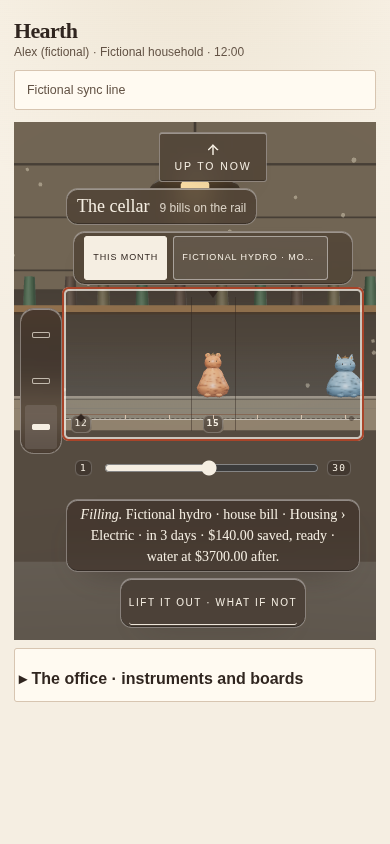
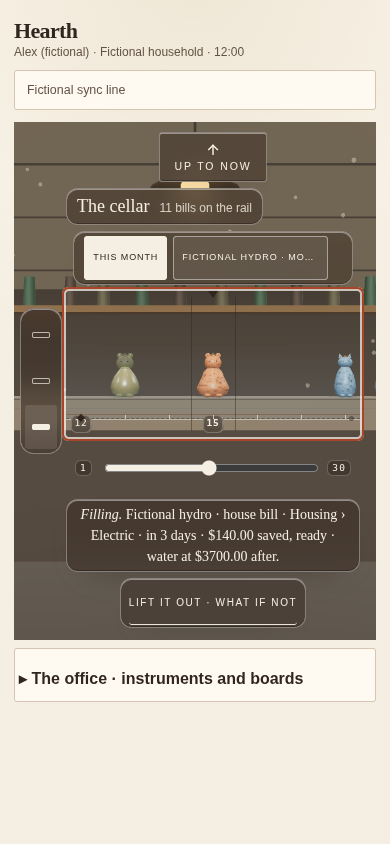
A planned expense is frosted glass, not a wireframe ghost; four purposes, four silhouettes
Planned expenses get a round no-tail body in frosted glass; wireframe stays
for paid shards only. Recurring = tall cat; appointment = loaf.

diff --git a/src/queen/QueenBankFlat.tsx b/src/queen/QueenBankFlat.tsx
@@ -27,7 +27,7 @@ function draw(form: BankForm) {
   const right = points.map(([r, y]) => `L${across(r).toFixed(2)} ${up(y).toFixed(2)}`);
   const left = [...points].reverse().map(([r, y]) => `L${across(-r).toFixed(2)} ${up(y).toFixed(2)}`);
   const body = `M${cx} ${FOOT}${right.join("")}${left.join("")}Z`;
-  const dial = form === "goal" ? 1 : form === "subscription" ? 0.85 : form === "recurring" ? 0.8 : form === "appointment" ? 0.72 : 0.75;
+  const dial = form === "goal" ? 1 : form === "subscription" ? 0.85 : form === "recurring" ? 0.72 : form === "appointment" ? 0.8 : form === "planned" ? 0.8 : 0.75;
   const head = KITTY_HEAD_SCALE[sculpt.head];
   return {
     body,
@@ -61,8 +61,10 @@ const shapeOf = (form: BankForm) => {
 
 export type BankFinish = "plain" | "speckle" | "banded" | "crackle";
 
-export function QueenBankFlat({ form, fill = 0, parts = 0, hollow = false, lidded, className, tint, finish = "plain" }: {
+export function QueenBankFlat({ form, fill = 0, parts = 0, hollow = false, frosted = false, lidded, className, tint, finish = "plain" }: {
   form: BankForm;
+  /** A planned expense: drawn as frosted glass in its tint — translucent, dashed — rather than an empty outline. */
+  frosted?: boolean;
   /** The clay's tint — a CSS colour from the category group. Absent, the bare clay. */
   tint?: string;
   /** The category line's finish: a pattern laid over the clay. */
@@ -84,9 +86,9 @@ export function QueenBankFlat({ form, fill = 0, parts = 0, hollow = false, lidde
   const glazeTop = FOOT - (FOOT - shape.shoulder) * level;
   const necks = Math.min(3, Math.max(0, parts));
   return (
-    <svg className={className} viewBox={`0 0 ${VIEW} ${VIEW}`} aria-hidden="true" focusable="false" data-form={form} data-hollow={hollow ? "true" : "false"} data-finish={finish} style={tint ? { ["--bank-tint" as string]: tint } : undefined}>
+    <svg className={className} viewBox={`0 0 ${VIEW} ${VIEW}`} aria-hidden="true" focusable="false" data-form={form} data-hollow={hollow ? "true" : "false"} data-frosted={frosted ? "true" : "false"} data-finish={finish} style={tint ? { ["--bank-tint" as string]: tint } : undefined}>
       <clipPath id={`${uid}-body`}><path d={shape.body} /></clipPath>
-      {finish !== "plain" && !hollow && (
+      {finish !== "plain" && !hollow && !frosted && (
         <pattern id={`${uid}-finish`} patternUnits="userSpaceOnUse" width="12" height="12">
           {finish === "speckle" && <><circle className="queen-bank-flat__finish" cx="3" cy="4" r="1.2" /><circle className="queen-bank-flat__finish" cx="9" cy="9" r="1" /><circle className="queen-bank-flat__finish" cx="8" cy="2" r=".8" /></>}
           {finish === "banded" && <rect className="queen-bank-flat__finish" x="0" y="4" width="12" height="2.4" />}
@@ -96,7 +98,7 @@ export function QueenBankFlat({ form, fill = 0, parts = 0, hollow = false, lidde
       {shape.tail && <path className="queen-bank-flat__tail" d={shape.tail} fill="none" strokeWidth="5" strokeLinecap="round" />}
       <path className={`queen-bank-flat__clay${hollow ? " is-hollow" : ""}`} d={shape.body} />
       {!hollow && level > 0.02 && <rect className="queen-bank-flat__glaze" clipPath={`url(#${uid}-body)`} x="0" y={glazeTop} width={VIEW} height={FOOT - glazeTop + 1} />}
-      {finish !== "plain" && !hollow && <path className="queen-bank-flat__finish-coat" d={shape.body} fill={`url(#${uid}-finish)`} />}
+      {finish !== "plain" && !hollow && !frosted && <path className="queen-bank-flat__finish-coat" d={shape.body} fill={`url(#${uid}-finish)`} />}
       <path className="queen-bank-flat__edge" d={shape.body} fill="none" strokeWidth="2" />
       {[-1, 1].map((side) => (shape.earUp
         ? <path key={side} className="queen-bank-flat__ear" d={`M${shape.headX + side * shape.earSpread - shape.earR * 0.8} ${shape.earY + 2}L${shape.headX + side * shape.earSpread} ${shape.earY - shape.earR * 1.6}L${shape.headX + side * shape.earSpread + shape.earR * 0.8} ${shape.earY + 2}Z`} />

diff --git a/src/queen/world/queenRoomWorld.ts b/src/queen/world/queenRoomWorld.ts
@@ -36,6 +36,8 @@ export type RoomVessel = {
   outlier?: boolean;
   /** Nothing was posted: the jar is drawn as an outline, claiming nothing. */
   hollow?: boolean;
+  /** A planned expense: not posted, but not nothing either — frosted glass in its group's tint, the shape of what might be. */
+  frosted?: boolean;
   /** Picked up. It lifts off the shelf; its shadow spreads. */
   lifted?: boolean;
   /** Leaning away, because something was offered to a lidded thing. */
@@ -298,6 +300,15 @@ export function createQueenRoomWorld(host: HTMLElement, options: { room: QueenRo
     finishMaps.set(finish, texture);
     return texture;
   };
+  const frostedClays = new Map<string, THREE.Material>();
+  const frostedFor = (tint?: string): THREE.Material => {
+    const key = tint ?? "clay";
+    const known = frostedClays.get(key);
+    if (known) return known;
+    const built = mat(new THREE.MeshPhysicalMaterial({ color: tint ?? "#c0a67e", roughness: 0.55, transmission: 0, transparent: true, opacity: 0.42, clearcoat: 0.6, clearcoatRoughness: 0.35, depthWrite: false }));
+    frostedClays.set(key, built);
+    return built;
+  };
   const tintedClays = new Map<string, THREE.Material>();
   const clayFor = (tint?: string, finish: NonNullable<RoomVessel["finish"]> = "plain"): THREE.Material => {
     if (!tint) return clay;
@@ -329,9 +340,10 @@ export function createQueenRoomWorld(host: HTMLElement, options: { room: QueenRo
   /** Build one bank in the form it is given. One unit tall at rest; the seat's height is its scale. */
   const buildVessel = (vessel: RoomVessel): Seat => {
     const form = vessel.form ?? vessel.kind;
-    const built = buildBankVessel(shapeFor(form), { ...bankMaterials, clay: clayFor(vessel.tint, vessel.finish) }, {
+    const frosted = Boolean(vessel.frosted);
+    const built = buildBankVessel(shapeFor(form), { ...bankMaterials, clay: clayFor(vessel.tint, vessel.finish), ...(frosted ? { ghost: frostedFor(vessel.tint) } : {}) }, {
       form,
-      hollow: vessel.hollow,
+      hollow: vessel.hollow || frosted,
       // Open-mouthed things accept; lidded things refuse. A month on the rail is
       // a bill, so it is lidded too: there was never a decision inside it.
       lidded: vessel.kind !== "goal",
@@ -428,7 +440,7 @@ export function createQueenRoomWorld(host: HTMLElement, options: { room: QueenRo
         seen.add(vessel.id);
         const old = seats.get(vessel.id);
         // A change of kind, hollowness or part count is a different vessel; everything else is a pose.
-        if (old && old.vessel.kind === vessel.kind && old.vessel.form === vessel.form && old.vessel.tint === vessel.tint && old.vessel.finish === vessel.finish && old.vessel.hollow === vessel.hollow && old.vessel.parts === vessel.parts) {
+        if (old && old.vessel.kind === vessel.kind && old.vessel.form === vessel.form && old.vessel.tint === vessel.tint && old.vessel.finish === vessel.finish && old.vessel.hollow === vessel.hollow && old.vessel.frosted === vessel.frosted && old.vessel.parts === vessel.parts) {
           old.vessel = vessel;
           poseVessel(old);
           continue;

diff --git a/src/queen/world/queenBankSculpture.ts b/src/queen/world/queenBankSculpture.ts
@@ -33,7 +33,7 @@ import type { KittySculptV1 } from "../../core/types.ts";
 export type BankForm = "jar" | "goal" | "bill" | "recurring" | "subscription" | "appointment" | "planned";
 
 /** Head size dial per form, matching `nestDefaultPiece`: a bill's head is small. */
-const HEAD_DIAL: Record<BankForm, number> = { jar: 0.75, goal: 1, bill: 0.75, recurring: 0.8, subscription: 0.85, appointment: 0.72, planned: 0.75 };
+const HEAD_DIAL: Record<BankForm, number> = { jar: 0.75, goal: 1, bill: 0.75, recurring: 0.72, subscription: 0.85, appointment: 0.8, planned: 0.8 };
 
 /** The tier sculpts, straight from the nest's own defaults. */
 export const BANK_SCULPT: Record<BankForm, Pick<KittySculptV1, "body" | "head" | "ears" | "tail" | "profile">> = {
@@ -44,14 +44,14 @@ export const BANK_SCULPT: Record<BankForm, Pick<KittySculptV1, "body" | "head" |
   // A lidded obligation: bean, round ears, no tail.
   bill: { body: "bean", head: "round", ears: "round", tail: "none", profile: defaultKittySculpt().profile },
   // The cellar's purposes (2026-09-14), one body each so a purpose is a shape before it is a word:
-  // a recurring payment (a loan, an insurance) is the low loaf with pointed ears — it sits and stays;
-  recurring: { body: "loaf", head: "wedge", ears: "pointed", tail: "none", profile: defaultKittySculpt().profile },
+  // a recurring payment (a loan, an insurance) is the tall cat with pointed ears — upright, it stands and stays;
+  recurring: { body: "tall", head: "wedge", ears: "pointed", tail: "none", profile: defaultKittySculpt().profile },
   // a subscription is the round cat with its tail wrapped round — the loop that comes back every month;
   subscription: { body: "round", head: "round", ears: "pointed", tail: "wrap", profile: defaultKittySculpt().profile },
-  // an appointment is the tall cat, upright, waiting on a date;
-  appointment: { body: "tall", head: "round", ears: "round", tail: "none", profile: defaultKittySculpt().profile },
-  // a planned expense is the bill's bean, but it is always drawn hollow until it posts.
-  planned: { body: "bean", head: "round", ears: "round", tail: "none", profile: defaultKittySculpt().profile },
+  // an appointment is the low loaf, sitting, waiting on a date;
+  appointment: { body: "loaf", head: "round", ears: "round", tail: "none", profile: defaultKittySculpt().profile },
+  // a planned expense is a round cat with no tail, and it is frosted glass until it posts: the shape of what might be.
+  planned: { body: "round", head: "round", ears: "round", tail: "none", profile: defaultKittySculpt().profile },
 };
 
 /** Every measurement a room needs to seat a bank of this form, in the cat's own units. */

diff --git a/src/queen/queen-cellar.css b/src/queen/queen-cellar.css
@@ -59,6 +59,11 @@
 .queen-room--cellar .queen-bank-flat__finish { fill: color-mix(in srgb, var(--ink) 34%, transparent); }
 .queen-room--cellar .queen-bank-flat__finish-line { fill: none; stroke: color-mix(in srgb, var(--ink) 38%, transparent); stroke-width: .9; }
 .queen-room--cellar .queen-bank-flat__finish-coat { opacity: .9; }
+/* A planned expense is frosted glass: its tint at a third, a dashed edge, no eyes yet — the shape of what might be. */
+.queen-room--cellar .queen-bank-flat[data-frosted="true"] .queen-bank-flat__clay, .queen-room--cellar .queen-bank-flat[data-frosted="true"] .queen-bank-flat__ear { fill: color-mix(in srgb, var(--bank-tint, var(--queen-clay)) 34%, transparent); }
+.queen-room--cellar .queen-bank-flat[data-frosted="true"] .queen-bank-flat__edge { stroke: color-mix(in srgb, var(--bank-tint, var(--queen-clay-deep)) 75%, var(--ink)); stroke-dasharray: 3 3; }
+.queen-room--cellar .queen-bank-flat[data-frosted="true"] .queen-bank-flat__eye { opacity: .45; }
+.queen-room--cellar .queen-bank-flat[data-frosted="true"] .queen-bank-flat__glaze { opacity: .5; }
 /* Five sizes. The cell stays 44px; the cat grows through it, and the sculpture behind it follows the drawn seat. */
 .queen-room--cellar .queen-billjar--size-1, .queen-room--cellar .queen-billjar--size-1 .queen-billjar__cat { width: 28px; height: 28px; }
 .queen-room--cellar .queen-billjar--size-2, .queen-room--cellar .queen-billjar--size-2 .queen-billjar__cat { width: 34px; height: 34px; }

diff --git a/src/queen/QueenCellarRail.tsx b/src/queen/QueenCellarRail.tsx
@@ -23,7 +23,7 @@ export const cellarBankForm = (type: CellarJar["type"]): BankForm =>
 export function CellarJarGlyph({ jar, held = false }: { jar: CellarJar; held?: boolean }) {
   return (
     <span className={`queen-billjar queen-billjar--${jar.type} queen-billjar--size-${jar.size}${jar.paid ? " is-shard" : ""}${held ? " is-held" : ""}`} data-hue={jar.hue} data-finish={jar.finish} aria-hidden="true">
-      <QueenBankFlat form={cellarBankForm(jar.type)} className="queen-bank-flat queen-billjar__cat" fill={jar.paid ? 0 : jar.fill} hollow={jar.type === "potential" || jar.paid} tint={jar.hue === "clay" ? undefined : `var(--queen-hue-${jar.hue})`} finish={jar.finish} />
+      <QueenBankFlat form={cellarBankForm(jar.type)} className="queen-bank-flat queen-billjar__cat" fill={jar.paid ? 0 : jar.fill} hollow={jar.paid} frosted={jar.type === "potential" && !jar.paid} tint={jar.hue === "clay" ? undefined : `var(--queen-hue-${jar.hue})`} finish={jar.finish} />
       {(jar.paid || jar.strike === "crack") && (
         <svg viewBox="0 0 100 100" className={`queen-billjar__crack${jar.paid ? " queen-billjar__crack--shard" : " queen-billjar__crack--due"}`}>
           <path d={jar.paid ? "M52 34 L44 52 L56 62 L46 86" : "M54 40 L47 56 L57 66"} />

diff --git a/test/queen-cellar-ui.test.ts b/test/queen-cellar-ui.test.ts
@@ -210,8 +210,11 @@ describe("The cellar's bill rail — the room opens on this month, one jar a day
     expect(glyph("Fictional rent").className).toContain("queen-billjar--size-5");
     expect(glyph("Fictional streaming").className).toContain("queen-billjar--size-1");
     expect(glyph("Fictional winter tires").className).toContain("queen-billjar--size-4");
-    // A hollow jar (planned, or paid) wears no finish coat: nothing is inside it to glaze.
+    // A planned expense is frosted glass (not an empty outline) and wears no finish coat; a paid one is hollow.
+    expect(cat("Fictional winter tires").dataset.frosted).toBe("true");
+    expect(cat("Fictional winter tires").dataset.hollow).toBe("false");
     expect(cat("Fictional winter tires").querySelector(".queen-bank-flat__finish-coat")).toBeNull();
+    expect(cat("Fictional streaming").dataset.hollow).toBe("true");
     expect(cat("Fictional streaming").querySelector(".queen-bank-flat__finish-coat")).toBeNull();
   });
 });

diff --git a/src/queen/QueenCellar.tsx b/src/queen/QueenCellar.tsx
@@ -88,7 +88,7 @@ export function QueenCellar({ ribbons, open, stairRef, onExit, onOpenBanks, worl
   const vessels = useMemo<RoomVessel[]>(() => {
     const rows: RoomVessel[] = [];
     if (view === "bills" && reading) {
-      for (const jar of reading.jars) rows.push({ id: jar.id, kind: "bill", form: cellarBankForm(jar.type), tint: jar.hue === "clay" ? undefined : CELLAR_HUE_HEX[jar.hue], finish: jar.finish, swell: 1, fill: jar.paid ? 0 : jar.fill, hollow: jar.type === "potential" || jar.paid, outlier: false, lifted: heldId === jar.id });
+      for (const jar of reading.jars) rows.push({ id: jar.id, kind: "bill", form: cellarBankForm(jar.type), tint: jar.hue === "clay" ? undefined : CELLAR_HUE_HEX[jar.hue], finish: jar.finish, swell: 1, fill: jar.paid ? 0 : jar.fill, hollow: jar.paid, frosted: jar.type === "potential" && !jar.paid, outlier: false, lifted: heldId === jar.id });
       return rows;
     }
     for (const jar of jars) {

diff --git a/docs/evidence/queen-cellar/README.md b/docs/evidence/queen-cellar/README.md
@@ -6,7 +6,7 @@ path), fictional Development books on the `composition=queen` proof page with
 `test/queen-cellar-layout.mjs`; 23 records in `records.json`, **0 page errors,
 0 serious/critical axe hits, `overflowY` 0 everywhere**.
 
-The fictional month on the rail, nine jars: *Fictional streaming* (subscription,
+The fictional month on the rail, eleven jars (plus *Fictional big shop*, planned, Food › Groceries, the 13th, and *Fictional oil change*, planned, Transport › Fuel, the 19th): *Fictional streaming* (subscription,
 Life › Fun, the 8th, already posted → a shard), *Fictional gym* (subscription,
 Health › Care, the 10th, full and overdue → its hammer is out from the 12th),
 *Fictional hydro* (house bill, Housing › Electric, the 15th, full), *Fictional
@@ -19,7 +19,7 @@ payment, the 28th).
 
 | Set | What it shows |
 |---|---|
-| `early-*` (320×568, 320×700, 390×844, 720×900, 1100×800) | The 12th. The gate opens on today; the water stands at 93% of the month's crest; nine jars on their days, **each told apart three ways** — a body per purpose, a tint per category group, a finish per line, a size band per due. Only the overdue full gym has its hammer out; everything ahead just holds its water (`early-gate-*`: *"Filling. Fictional hydro · house bill · Housing › Electric · in 3 days · $140.00 saved, ready"*, and the only act is the rehearsal). The line with no jar in the gate is the key: *shape is what it is for, colour where it is filed, size how large the due is.* |
+| `early-*` (320×568, 320×700, 390×844, 720×900, 1100×800) | The 12th. The gate opens on today; the water stands at 93% of the month's crest; eleven jars on their days, **each told apart three ways** — a body per purpose, a tint per category group, a finish per line, a size band per due. Only the overdue full gym has its hammer out; everything ahead just holds its water (`early-gate-*`: *"Filling. Fictional hydro · house bill · Housing › Electric · in 3 days · $140.00 saved, ready"*, and the only act is the rehearsal). The line with no jar in the gate is the key: *shape is what it is for, colour where it is filed, size how large the due is.* |
 | `due-crack-*` (320, 390, 1100) | The 20th. The gate opens on today, where the rent stands **cracked**: due and $140 short. The line names it; the act reads *Pay it anyway · from the water*. The strikes down the rail read `shard, hammer, crack, none, none`. |
 | `due-lifted-*` | The rent lifted out for a rehearsal: the jar floats over a dotted hole, the water on its day rises from 70% to 93% of the crest, the line ends *"Lifted out — a rehearsal; nothing is written."* `Set it back` restores it. No command is called. |
 | `due-hammer-*` / `due-confirm-*` | The overdue, full hydro jar in the gate: **the hammer is out**, by hand only. Pressing it opens the app's Confirm sheet (*"Break the bank: Fictional hydro … does not move money at your bank"*). Cancel leaves the hammer out and posts nothing. |
@@ -35,9 +35,10 @@ payment, the 28th).
   the studio's own kitty bank, and three things tell one from another, every
   one a band read from the books (`src/core/queenCellar.ts`): **the body is
   the purpose** — a house bill is the lidded bean cat, a recurring payment the
-  low loaf with pointed ears, a subscription the round cat with its tail
-  wrapped round, an appointment the tall cat, a planned expense the bean drawn
-  hollow until it posts; **the tint is the category group** the bill is filed
+  tall cat with pointed ears, a subscription the round cat with its tail
+  wrapped round, an appointment the low loaf, a planned expense a round cat
+  in **frosted glass** (translucent in its group's tint, a dashed edge) until
+  it posts — never the wireframe ghost, which is kept for the paid shard; **the tint is the category group** the bill is filed
   under (Housing terracotta, Food olive, Transport slate, Life plum, Health
   sage, Debt graphite; an unknown group keeps the bare clay) and **the finish
   is the line inside it** (plain, speckled, banded, crackled by the line's

diff --git a/docs/worksessions/2026-09-14-queen-house-merge.md b/docs/worksessions/2026-09-14-queen-house-merge.md
@@ -77,6 +77,7 @@ Three axes, every one a band, all read from what the books already hold — noth
 - **Body = purpose.** `BankForm` gains `recurring` (the low loaf, pointed ears), `subscription` (the round cat, tail wrapped round — the loop that comes back), `appointment` (the tall cat) and `planned` (the bill's bean, always hollow until it posts); `bill` stays the lidded bean. `cellarBankForm(type)` maps the jar's type; `RoomVessel.form` carries it to the sculpture, `QueenBankFlat` draws the same points.
 - **Tint = category group, finish = line.** `cellarFiling` follows the bank to its recurrence or planned expense, to its subcategory, to its group; `cellarHue(groupName)` picks one of six clays by the group's name (Housing, Food, Transport, Life, Health, Debt; unknown keeps the bare clay), `cellarFinish(index)` picks plain / speckle / banded / crackle by the line's place among its group's active lines — so Electric and Household gas are the same clay in two glazes, and a gym subscription and a streaming one are two clays. In 3D a finish is one 64px greyscale canvas per finish multiplied by the tint (four textures for any number of hues; skipped silently where `getContext` fails); in the flat twin it is an SVG pattern laid over clay and glaze.
 - **Size = five bands** of the due against the month's largest (`cellarSize`: ≥80% → 5, ≥45% → 4, ≥20% → 3, ≥7% → 2, else 1), drawn as 28 / 34 / 42 / 52 / 64 px cats; the sculpture follows the drawn seat, so the 3D rent is the 3D room's largest too. Bands, never proportion — the rooms' rule that no figure can be read off a shape holds.
+- **Frosted, not wireframe.** Jonathan's live books are mostly planned expenses, and on the deployed page they came up as a row of grey wireframe ghosts, all the same bean, tint invisible — the rule was right and the picture was wrong. A planned expense is now its own body (a round cat, no tail) in **frosted glass**: a translucent tinted clay in 3D (`RoomVessel.frosted`, one material per hue, `depthWrite` off), a third-strength tint with a dashed edge in the flat twin. The wireframe ghost stays for the paid shard only. Recurring became the tall cat and the appointment the loaf, so the four purposes are four silhouettes.
 - **Understandable:** every jar's accessible name says its purpose, its group › line and its size band in words; the line beneath the gate says purpose and filing; with no jar in the gate the line is the key ("its shape is what it is for, its colour where it is filed, its size how large the due is"). The proof (`bills=1`) seeds one of every purpose across six groups.
 
 Verification: 5 new tests (`cellarHue`, `cellarFinish`, `cellarSize`, the filing on the fixture, the three axes in the DOM); `pnpm check` → `quick-gate-passed` (17 files / 221 tests); `queen-cellar-layout.mjs` → 23 records, nine jars named with purpose and filing at every width, 0 axe hits, 0 errors; evidence regenerated. Known: the fixture files its rent under Housing › Electric (a fixture quirk, so rent and hydro share a finish there); a Confirm sheet or gate line names the filing exactly as the books do.

diff --git a/docs/AI_HANDOFF.md b/docs/AI_HANDOFF.md
@@ -2,7 +2,7 @@
 
 Same branch `claude/queen-house-merged`, one more commit; deliverable `queen-house-merged.patch` (re-squashed). Jonathan: "one different shaped model for each purpose … break those down into different colours and textures … differentiate by size depending on how large the due is." **Risk Medium** — presentation only. Budget (5): +0 — every axis is a band read from the recurrence's `kind`, its subcategory's group and place, and the target against the month's largest; nothing stored, nothing posted. Engagement (3): +2 — the rail reads at a glance without a single figure on it.
 
-What changed: `BankForm` gains `recurring`, `subscription`, `appointment`, `planned` (one body per purpose, in `queenBankSculpture.ts` and traced by `QueenBankFlat`); `RoomVessel` gains `form`, `tint`, `finish`; the room world builds tinted, finished clays (four canvas textures × any hue); `src/core/queenCellar.ts` gains `cellarHue`, `cellarFinish`, `cellarSize` and files each jar under its group › line; the rail draws five size bands (28–64px) and the sculpture follows the seat; the accessible name and the gate line say purpose, filing and size band in words, and the empty gate is the key. Proof seeds a gym subscription (Health), a transit pass (Transport), a phone bill (Life), a card payment (Debt) beside the rest.
+Seen on the deployed page, a month of planned expenses came up as grey wireframe ghosts; a planned expense is now **frosted glass** in its tint (`RoomVessel.frosted`; the flat twin a third-strength tint with a dashed edge), its own round tailless body, and the wireframe is kept for the paid shard. What changed: `BankForm` gains `recurring` (tall), `subscription` (round, wrapped tail), `appointment` (loaf), `planned` (round, frosted) (one body per purpose, in `queenBankSculpture.ts` and traced by `QueenBankFlat`); `RoomVessel` gains `form`, `tint`, `finish`; the room world builds tinted, finished clays (four canvas textures × any hue); `src/core/queenCellar.ts` gains `cellarHue`, `cellarFinish`, `cellarSize` and files each jar under its group › line; the rail draws five size bands (28–64px) and the sculpture follows the seat; the accessible name and the gate line say purpose, filing and size band in words, and the empty gate is the key. Proof seeds a gym subscription (Health), a transit pass (Transport), a phone bill (Life), a card payment (Debt) beside the rest.
 
 Verification: `tsc`; `pnpm check` → `quick-gate-passed` (17 files / 221 tests, 99 s); `queen-cellar-layout.mjs` — 23 records, nine jars at every width with purpose and filing named, 0 axe hits, 0 errors; evidence regenerated. Uncertainty: the finish textures are SwiftShader-proven, not phone-proven; the fixture's rent is filed under Housing › Electric so rent and hydro share a finish in the stills; six group hues are a fixed palette matched by name — a household with its own group names falls back to the bare clay until a name matches. Not pushed, not a PR, not merged, not deployed, not live verified. [Worksession](worksessions/2026-09-14-queen-house-merge.md) · [Evidence](evidence/queen-cellar/).
 
